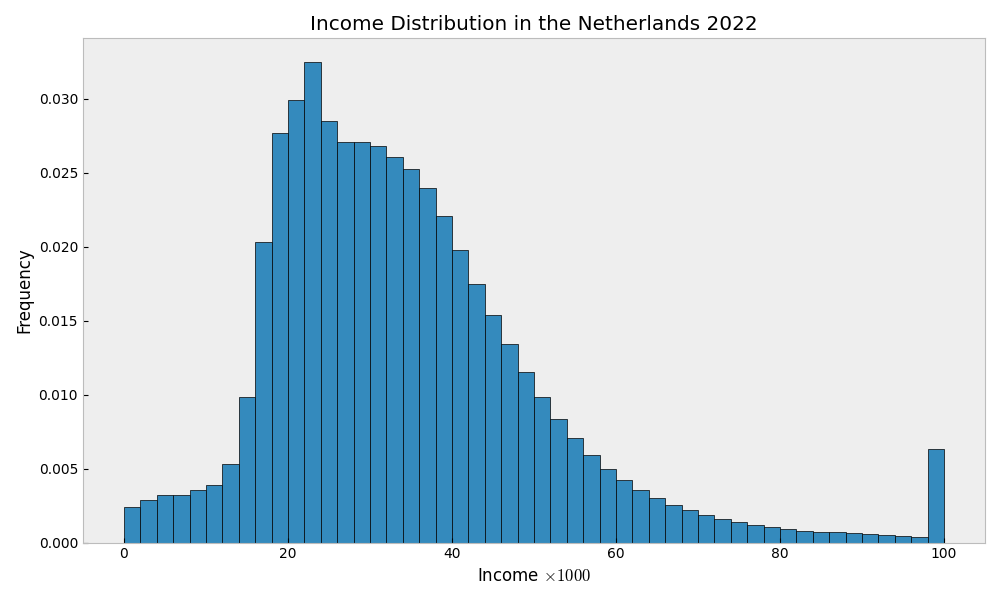
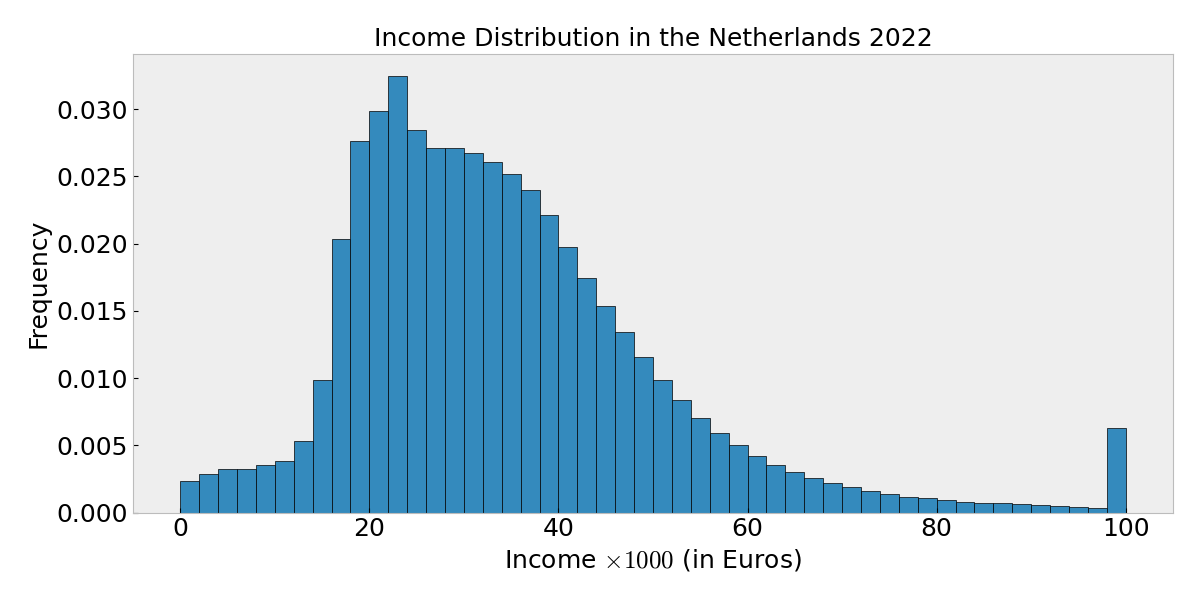
added income distribution to script file

diff --git a/scripts/create_plots.py b/scripts/create_plots.py
@@ -1,0 +1,40 @@
+import matplotlib.pyplot as plt
+import pandas as pd
+
+from src.income_distribution import repeat_data, load_distribution
+
+plt.style.use("bmh")
+plt.rcParams["figure.figsize"] = (12, 6)
+plt.rcParams["font.size"] = 18
+plt.rcParams["axes.labelsize"] = 18
+plt.rcParams["axes.titlesize"] = 18
+FIG_DPI = 300
+
+
+def plot_income_distribution(
+    title: str = "Income Distribution",
+    xlabel: str = "Income",
+    ylabel: str = "Frequency",
+    bins: int = 50,
+    save=True,
+    save_path: str = "fig/income_distribution.png",
+):
+    """
+    Plot the income distribution.
+    """
+    df = load_distribution()
+
+    expanded_data = repeat_data(df)
+    pd.Series(expanded_data).plot(
+        kind="hist", bins=bins, edgecolor="black", density=True
+    )
+    plt.title(title)
+    plt.xlabel(xlabel)
+    plt.ylabel(ylabel)
+    plt.grid(False)
+    plt.tight_layout()
+    if save:
+        plt.savefig(save_path)
+        plt.close()
+    else:
+        plt.show()

diff --git a/src/income_distribution.py b/src/income_distribution.py
@@ -39,35 +39,6 @@ def repeat_data(df: pd.DataFrame) -> pd.Series:
     return pd.Series(expanded_data)
 
 
-def plot_income_distribution(
-    df: pd.DataFrame,
-    title: str = "Income Distribution",
-    xlabel: str = "Income",
-    ylabel: str = "Frequency",
-    bins: int = 50,
-    save=True,
-    save_path: str = "fig/income_distribution.png",
-):
-    """
-    Plot the income distribution.
-    """
-    expanded_data = repeat_data(df)
-    plt.figure(figsize=(10, 6))
-    pd.Series(expanded_data).plot(
-        kind="hist", bins=bins, edgecolor="black", density=True
-    )
-    plt.title(title)
-    plt.xlabel(xlabel)
-    plt.ylabel(ylabel)
-    plt.grid(False)
-    plt.tight_layout()
-    if save:
-        plt.savefig(save_path)
-        plt.close()
-    else:
-        plt.show()
-
-
 def create_income_distribution(df: pd.DataFrame) -> rv_discrete:
     income_distribution = rv_discrete(
         name="income_dist", values=(df["income_point"], df["probability"])

diff --git a/src/simulation_runner.py b/src/simulation_runner.py
@@ -2,7 +2,6 @@ import numpy as np
 import pandas as pd
 
 from src.model import GentSimModel
-from src.income_distribution import load_distribution, plot_income_distribution
 
 
 def single_run(
@@ -15,7 +14,6 @@ def single_run(
     steps,
     output_path="data/agent_data.csv",
     save_data=True,
-
 ):
     """
     Runs a single simulation of GentSimModel for a given number of steps.
@@ -33,8 +31,7 @@ def single_run(
         verbose (bool): Whether to print progress and summary info.
         plot_income (bool): Whether to show the income distribution plot.
     """
-    gentsim = GentSimModel(n_agents, n_neighborhoods,
-                           n_houses, theta, epsilon, p_h)
+    gentsim = GentSimModel(n_agents, n_neighborhoods, n_houses, theta, epsilon, p_h)
 
     for step in range(steps):
         print(f"Running step {step + 1}/{steps}...")

diff --git a/main.py b/main.py
@@ -1,10 +1,14 @@
 import numpy as np
 
-from src.income_distribution import load_distribution, plot_income_distribution
 from src.model import GentSimModel
 from src.simulation_runner import single_run
+from scripts.create_plots import plot_income_distribution
 
 if __name__ == "__main__":
-
     single_run(10, 10, 10, 0.5, 1, 0.5, 10)
-    
+
+    plot_income_distribution(
+        title="Income Distribution in the Netherlands 2022",
+        xlabel=r"Income $\times 1000$ (in Euros)",
+        ylabel="Frequency",
+    )
